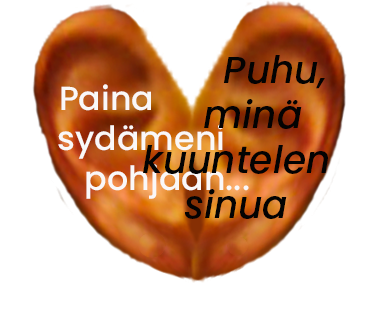
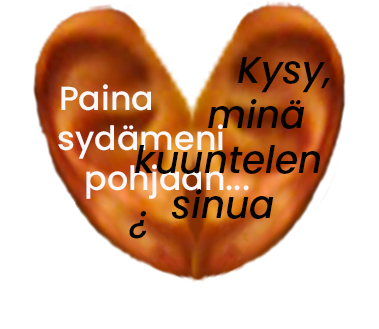
Add questions onto background of h-ear-t

diff --git a/index.html b/index.html
@@ -19,6 +19,56 @@
 
   <!--<div id=introDIV><p style="text-align: center" onClick=' this.style.visibility = "hidden"'> paina sydäntäni, <br> pohjaan <br> ja puhu minulle. <br>kysy minulta kysymyksiä</p></div>-->
   <div id='container' style="visibility: visible">
+    <p id='prompts'>
+      mitä kaipaan ?
+      miksi olen täällä ?
+      miten ihminen juurtuu ?
+      miksi viihdyn täällä niin hyvin ?
+      miksi muutin pois ?
+      missä elämä on ?
+      miksi olen tässä ?
+      missä on juuret ?
+      miksi kaivata paikaan, jossa ei ole ?
+      olenko rihmasto ?
+      missä on minun paikka ?
+      miksi olen täällä ?
+      mitä kaipaan ?
+      miksi olen täällä ?
+      miten ihminen juurtuu ?
+      miksi viihdyn täällä niin hyvin ?
+      miksi muutin pois ?
+      missä elämä on ?
+      miksi olen tässä ?
+      missä on juuret ?
+      miksi kaivata paikaan, jossa ei ole ?
+      olenko rihmasto ?
+      missä on minun paikka ?
+      miksi olen täällä ?
+      mitä kaipaan ?
+      miksi olen täällä ?
+      miten ihminen juurtuu ?
+      miksi viihdyn täällä niin hyvin ?
+      miksi muutin pois ?
+      missä elämä on ?
+      miksi olen tässä ?
+      missä on juuret ?
+      miksi kaivata paikaan, jossa ei ole ?
+      olenko rihmasto ?
+      missä on minun paikka ?
+      miksi olen täällä ?
+      mitä kaipaan ?
+      miksi olen täällä ?
+      miten ihminen juurtuu ?
+      miksi viihdyn täällä niin hyvin ?
+      miksi muutin pois ?
+      missä elämä on ?
+      miksi olen tässä ?
+      missä on juuret ?
+      miksi kaivata paikaan, jossa ei ole ?
+      olenko rihmasto ?
+      missä on minun paikka ?
+      miksi olen täällä ?
+    </p>
     <div id='heartDIV' style="visibility: visible"></div>
     <div id='questions' class='transplanted-text'></div>
   </div>

diff --git a/interface.js b/interface.js
@@ -11,11 +11,11 @@ function doInterface(){
   infoButton = createButton('i');
   infoButton.addClass('infobutton');
   infoButton.mouseOver( () => heartButton.attribute('src', 'assets/images/h-ear-t-i.png') )
-  .mouseOut( () => heartButton.attribute('src', 'assets/images/h-EAR-t.png') );
+  .mouseOut( () => heartButton.attribute('src', 'assets/images/h-ear-t.png') );
 
   sortAudiofiles();
 
-  heartButton = createImg('assets/images/h-EAR-t.png');
+  heartButton = createImg('assets/images/h-ear-t.png');
   heartButton.parent('heartDIV');
   heartButton.style("visibility: visible");
   //heartButton.addClass('heartButton');
@@ -29,7 +29,7 @@ function doInterface(){
 function stopAndClear(){
   $("#questions").css('opacity', '0.3');
   //heartButton.attribute('src', 'assets/images/heart-broken.jpg')
-  heartButton.attribute('src', 'assets/images/h-EAR-t.png')
+  heartButton.attribute('src', 'assets/images/h-ear-t.png')
   listener.stop();
 }
 
@@ -37,7 +37,7 @@ function listenToMyHeart() {
   $("#questions").text('');
   $("#questions").css('opacity', '1');
   //heartButton.attribute('src', 'assets/images/heart-beating.gif');
-  heartButton.attribute('src', 'assets/images/h-EAR-t.gif');
+  heartButton.attribute('src', 'assets/images/h-ear-t.gif');
   listener.start();
 }
 

diff --git a/transplanted.js b/transplanted.js
@@ -26,11 +26,11 @@ function preload() {
 
     listener.onresult = (event) => {
       speakingToMyHeart = event.results[0][0].transcript;
-      console.log(speakingToMyHeart);
-      $("#questions").html('" <em>' + speakingToMyHeart + '<em>? "');
+      //console.log(speakingToMyHeart);
+      $("#questions").html('" <em>' + speakingToMyHeart.toLowerCase() + '<em> ? "');
       //console.log(" *** *** " + speechToText);
       if(event.results[0].isFinal){
-        whatDidTheyAskUs(speakingToMyHeart);
+        whatDidTheyAskUs(speakingToMyHeart.toLowerCase());
         stopAndClear();
       }
     }

diff --git a/assets/css/transplanted.css b/assets/css/transplanted.css
@@ -31,6 +31,12 @@ body{
 
 }
 
+#prompts{
+  font-size: 40px;
+  font-family: "Poppins", Helvetica, Arial, sans-serif;
+  color: #f6f6f6;
+}
+
 #container{
   position: relative;
   width: window.innerWidth;
